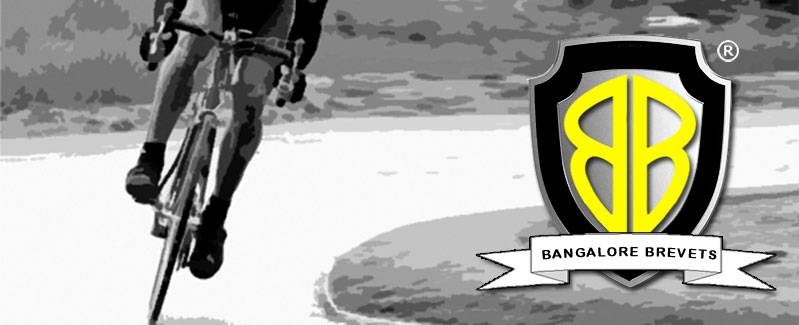
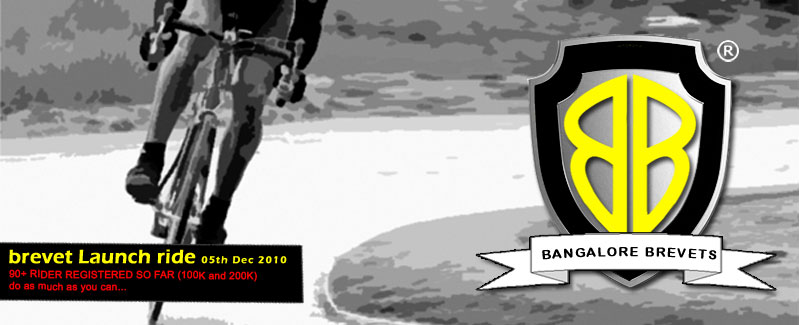
Manish | Comment : added brevetlaunchride link on the header on index page

Changed region(s): [[0.0, 0.7385, 0.3905, 0.9538]]

diff --git a/index.htm b/index.htm
@@ -34,6 +34,7 @@
 </map>
 <map name="map3">
 <AREA shape=RECT coords="530,30,735,290" href="http://www.bangalorebrevets.in" title="home page">
+<AREA shape=RECT coords="1,241,300,300" href="http://www.bangalorebrevets.in/LaunchRide.htm" title="home page">
 </map>
 
   <a href="https://github.com/rohankini/BangaloreBrevets"><img style="position: absolute; top: 0; right: 0; border: 0;" src="http://s3.amazonaws.com/github/ribbons/forkme_right_darkblue_121621.png" alt="Fork me on GitHub"></a>
@@ -125,15 +126,15 @@
             <td align="center" colspan="8" valign="middle" style="height: 10px">
             
             <script language="JavaScript">
-TargetDate = "12/05/2010 06:30 AM";
-BackColor = "Red";
-ForeColor = "white";
-CountActive = true;
-CountStepper = -1;
-LeadingZero = true;
-DisplayFormat = "    Brevet Launch: %%D%% Days, %%H%% Hrs, %%M%% Min, %%S%% Sec Left    ";
-FinishMessage = "It is finally here!";
-</script>
+                TargetDate = "12/05/2010 06:30 AM";
+                BackColor = "Red";
+                ForeColor = "white";
+                CountActive = true;
+                CountStepper = -1;
+                LeadingZero = true;
+                DisplayFormat = "    Brevet Launch: %%D%% Days, %%H%% Hrs, %%M%% Min, %%S%% Sec Left    ";
+                FinishMessage = "It is finally here!";
+            </script>
 <script language="JavaScript" src="http://scripts.hashemian.com/js/countdown.js">
 </script>
 
